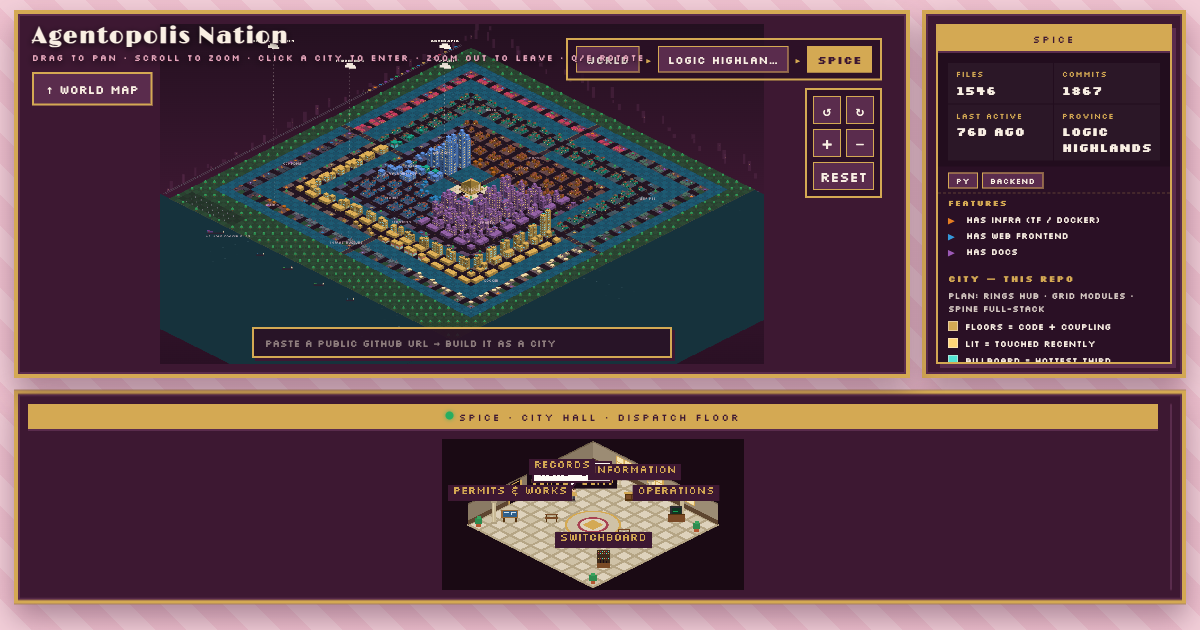
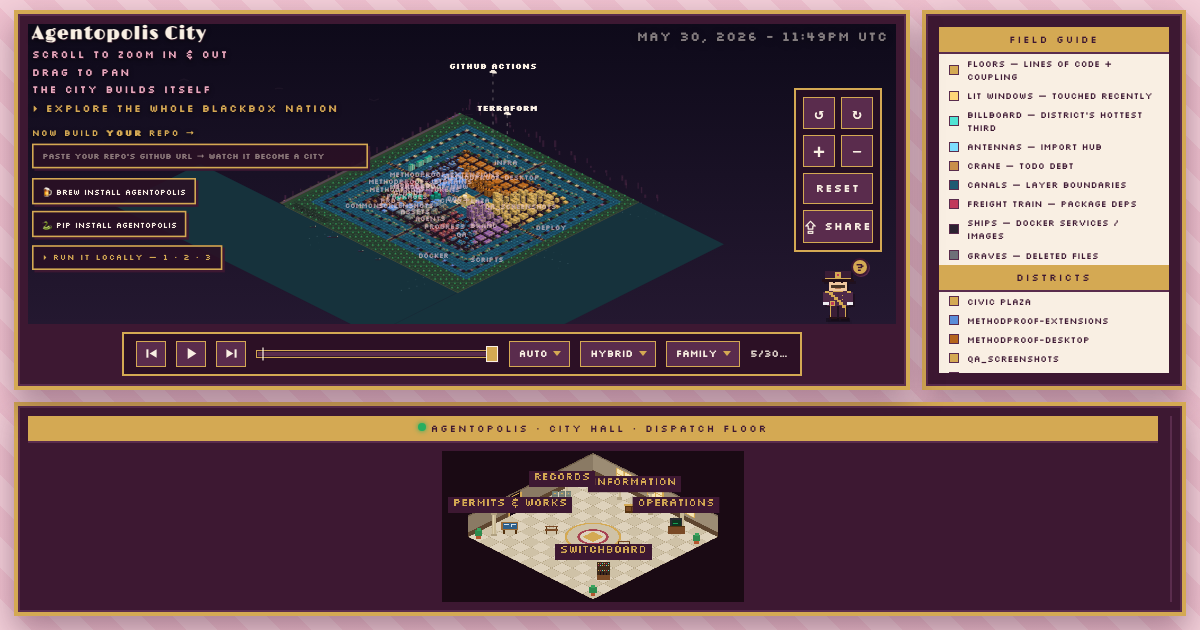
feat(tour,demo): open the movie finished+paused with a forced ▶, brand the demo "Agentopolis"
The hosted demo felt broken on arrival — a frantic auto-playing reel plus a
scurrying dispatch floor. Now, when the onboarding tour will run, the movie
opens on the FINISHED city (HEAD), paused and quiet, and the tour's first step
forces a "press ▶" control that replays from the first commit. Pausing the reel
also calms the agent-meme floor (it reads MOVIE_PLAYING), so one lever quiets
both. Returning visitors and embeds still autoplay from the empty lot.

- city-timelapse: rewindForTour() + autoplay gate (RESUME set / DONE unset, never
  in embeds); exposed as window.movieRewindForTour for tour replays.
- tour: new `proceed` flag — a forced IN-PAGE control advances the tour on click
  (vs. a navigation hand-off); arm() is now re-armable for back-nav/resize.
  Forced ▶ step added to the movie, demo-land, and demo-cards tracks.
- Showcase landing branded "Agentopolis" (title + social card) instead of the
  repo it's built from; demo capital switched to MethodProof (Dockerfile + bake
  default). og-image.png refreshed to the current branded landing.

Also includes a mobile affordance: tap a dossier legend card to pin its
highlight and hold the reel; tap again / play-pause / map-touch releases.

diff --git a/agentopolis/static/tour.js b/agentopolis/static/tour.js
@@ -41,6 +41,7 @@
     .replaceAll('← → to step a commit, or ', '')
     .replaceAll('Press play', 'Tap play').replaceAll('Press the controls', 'Tap the controls')
     .replaceAll('Press ■ live', 'Tap ■ live').replaceAll('Press ▶ Replay', 'Tap ▶ Replay')
+    .replaceAll('Press ▶', 'Tap ▶')
     .replaceAll('Click', 'Tap').replaceAll('click', 'tap')
     .replaceAll('Hover one', 'Tap & hold one').replaceAll('Hover a worker', 'Tap & hold a worker')
     .replaceAll('Hover an agent', 'Tap & hold an agent').replaceAll('Hover a citizen', 'Tap & hold a citizen')
@@ -98,10 +99,10 @@
   ];
   const MOVIE = [
     { center: 1, title: '⭐ THE FOUNDING, REPLAYED ⭐',
-      text: `Roll the reel, ${pres} — the official history of ${city}, rising commit by commit. This is your royal screening room; every lever of the chronicle obeys you here.` },
-    { sel: '#tl-play', title: 'Play & pause the chronicle',
-      text: '▶ Begin or halt the documentary at your pleasure — the ⏮ ⏭ flank it to leap between chapters. History waits for you.',
-      try: 'Press ▶ or tap spacebar — start the reel.' },
+      text: `Behold ${city}, ${pres} — complete, and held in your private screening room. Every lever of the chronicle obeys you here. Permit me to roll its history from the very beginning.` },
+    { sel: '#tl-play', force: 1, proceed: 1, title: 'Roll the reel yourself',
+      text: `The reel waits, paused, on the finished city. Press ▶ and watch ${city} rise again from a single commit — the ⏮ ⏭ flank it to leap between chapters, and you may halt anytime.`,
+      try: 'Press ▶ — start the replay.' },
     { sel: '#tl-seek', title: 'Scrub through the ages',
       text: 'Drag to leap to any era of your reign. The lit tick-marks are chapters — each the moment the city RE-FORMED into a grander shape.',
       try: 'Drag it, ← → to step a commit, or ⏮ ⏭ / , . to hop chapters.' },
@@ -126,13 +127,13 @@
   //      navigation itself (no clone to type), carrying the tour onward to where the explanation cards live. ----
   const DEMO_LAND = [
     { center: 1, title: '⭐ WELCOME TO THE REPUBLIC ⭐',
-      text: `${leader}! Your capital is rebuilding its entire glorious history before your very eyes. Permit your Chief of Staff to narrate the spectacle.` },
+      text: `${leader}! Your capital stands complete before you, ready to rebuild its entire glorious history at your command. Permit your Chief of Staff to narrate the spectacle.` },
+    { sel: '#tl-play', force: 1, proceed: 1, title: 'Press ▶ to begin',
+      text: 'Behold your capital, complete and waiting. Press ▶ and watch it raise itself from a single humble commit into the metropolis it was always destined to become.',
+      try: 'Press ▶ — start the founding.' },
     { sel: '#map', title: 'The founding, replayed',
-      text: 'Watch the city raise itself from a single humble commit into the metropolis it was always destined to become. It plays itself — as all things do, for you.',
+      text: 'There it rises — from a single humble commit toward the metropolis it was always destined to become. It builds itself, as all things do, for you.',
       try: 'Drag, scroll, and spin while it builds.' },
-    { sel: '#transport', title: 'Your screening controls',
-      text: '▶ Play or pause (spacebar), drag to scrub, hop chapters with ⏮ ⏭, set the pace of progress. The chronicle obeys your hand.',
-      try: 'Press play, drag the scrubber, or ⏮ ⏭ to hop chapters.' },
     { sel: '#tl-shape', title: 'Shape the skyline',
       text: 'A grant of taste, Excellency: reshape every building by file family, rarity, size, age — or a tasteful uniform decree. The look of the Republic bends to your whim.',
       try: 'Reshape the skyline — pick a mode.' },
@@ -144,7 +145,10 @@
   ];
   const DEMO_CARDS = [
     { center: 1, title: '⭐ GRAND OPENING ⭐',
-      text: `Behold, ${pres} — ribbon freshly cut, a brand-new town flinging its doors open and raising itself commit by commit in your honor. And now, the briefing you were denied back home...` },
+      text: `Behold, ${pres} — ribbon freshly cut, a brand-new town standing complete with its doors flung open, ready to raise itself commit by commit in your honor. And now, the briefing you were denied back home...` },
+    { sel: '#tl-play', force: 1, proceed: 1, title: 'Raise your new town',
+      text: 'Your freshly-opened town stands complete. Press ▶ to watch it rise from nothing — and the dossier beside it will narrate every district as it appears.',
+      try: 'Press ▶ — raise the city.' },
     { sel: '#explain', title: 'Your living war-room dossier',
       text: 'The dispatch floor yields to your briefing — and it rewrites ITSELF every commit. "Now Playing" names the commit at hand; the ledger counts your holdings; the Formation card reveals the very metrics that CHOSE this city’s shape; and each district reports its strength.',
       try: 'Read the cards — they refresh with every commit.' },
@@ -355,12 +359,13 @@
   }
 
   function arm(target, step) {                                 // pressing the real control carries the tour onward
-    if (target.dataset.tourArmed) return;
-    target.dataset.tourArmed = '1';
-    target.addEventListener('click', () => {                   // capture: runs before the control's own navigation
+    target.removeEventListener('click', target._tourArm, { capture: true });   // re-armable: back-nav / resize re-show
+    target._tourArm = () => {                                  // capture: runs before the control's own handler
+      if (step.proceed) return go(at + 1);                     // an in-page control (▶ play): pressing it advances the tour
       if (step.resume !== false) { localStorage.setItem(RESUME, ctx === 'city' ? 'movie' : '1'); }
-      localStorage.setItem(DONE, '1');                         // the live-city portion is seen; don't re-auto-run it
-    }, { capture: true, once: true });
+      localStorage.setItem(DONE, '1');                         // a hand-off control: it navigates; resume on the next page
+    };
+    target.addEventListener('click', target._tourArm, { capture: true, once: true });
   }
 
   function place(r) {                                          // park the card clear of the spotlit element
@@ -431,6 +436,7 @@
 
   function start() {                                          // dim the screen INSTANTLY, then bring the card in when ready
     if (!ui) build();
+    if (screeningRoom) window.movieRewindForTour?.();          // replay: pause on the finished city so the forced ▶ step replays it
     farewellShown = false;                                     // each run earns its own closing pointer
     ui.block.classList.remove('farewell-dim');
     ui.block.style.display = 'block';

diff --git a/agentopolis/static/city-timelapse.js b/agentopolis/static/city-timelapse.js
@@ -83,9 +83,16 @@ try { const c = JSON.parse(sessionStorage.getItem('apx-cam') || 'null');
   buildExplain();                                        // the dispatch floor becomes a live, repo-specific legend
   seek(-1);
   loading.remove();
-  startIntro();                                           // open on the live view's frame, then ease to the village
   speed = autoSpeed();                                    // size the walk to ~45s regardless of repo size (calm, not chaotic)
-  setPlay(true);                                          // a movie plays itself
+  // First-time visitors get the onboarding tour, which opens the city already FINISHED and paused, then
+  // walks the President to ▶ Replay it himself — calmer than a frantic auto-playing reel. Returning
+  // visitors (tour seen) and embeds still autoplay from the empty lot.
+  const embed = document.body.dataset.embed === '1';
+  const tourPending = !embed &&
+    (!!localStorage.getItem('agentopolis-tour-resume') || !localStorage.getItem('agentopolis-tour-done'));
+  if (tourPending) rewindForTour();                       // hold on the finished city, paused & quiet — ▶ replays it
+  else setPlay(true);                                     // a movie plays itself from the empty lot
+  startIntro();                                           // ease the camera in from the live view's frame (no-op without one)
   requestAnimationFrame(loop);
 })().catch(e => { loading.remove(); console.error('timelapse load failed', e); });
 
@@ -620,7 +627,8 @@ function loop(t) {
     if (drawTransition(t)) seek(transition.at);             // settle at full height (seek snaps floors; tween won't regrow)
     last = 0; requestAnimationFrame(loop); return;
   }
-  if (playing && ptr < commits.length - 1) {
+  const cardHeld = pinnedFocus || document.querySelector('#explain .xcard[data-focus]:hover');
+  if (playing && !cardHeld && ptr < commits.length - 1) {  // a hovered / tapped legend card holds the reel for inspection
     if (!last) last = t;
     acc += (t - last) / 1000 * speed;
     last = t;
@@ -676,12 +684,22 @@ function stepIntro(t) {
 }
 
 function setPlay(p) {
-  playing = p; last = 0;
+  playing = p; last = 0; pinnedFocus = null;               // hitting play/pause releases a pinned card
+
   window.MOVIE_PLAYING = p;                                 // hotel.js reads this: agents only go frantic while the reel rolls
   if (p && ptr >= commits.length - 1) seek(-1);          // replay from the start
   document.getElementById('tl-play').innerHTML = playing ? ICONS.pause : ICONS.play;
   if (!p && window.DEMO_MOVIE && ptr >= commits.length - 1) showFinishCTA();   // the demo holds on the finished city
 }
+
+// The onboarding tour opens on the COMPLETE city, paused, then forces the President to press ▶ Replay.
+// Jump to HEAD and pause directly (not via setPlay(false), which at HEAD would pop the demo's finish-CTA).
+function rewindForTour() {
+  seek(commits.length - 1);                                // the finished skyline
+  playing = false; window.MOVIE_PLAYING = false;           // paused → the dispatch floor stays calm
+  document.getElementById('tl-play').innerHTML = ICONS.play;
+}
+window.movieRewindForTour = rewindForTour;                 // tour.js calls this on replay (movie already loaded)
 
 function jumpChapter(dir) {                               // ⏮ / ⏭ and , / . hop between formation transitions
   setPlay(false);
@@ -1043,6 +1061,10 @@ function buildExplain() {
   tipEl = document.createElement('div'); tipEl.id = 'xtip'; document.body.appendChild(tipEl);
   box.addEventListener('mouseover', e => { const c = e.target.closest('.xcard[data-tip]'); if (c) showTip(c); });
   box.addEventListener('mouseout', e => { const c = e.target.closest('.xcard[data-tip]'); if (c && !c.contains(e.relatedTarget)) hideTip(); });
+  box.addEventListener('click', e => {                     // tap a legend card to pin it (mobile select); tap again to release
+    const c = e.target.closest('.xcard[data-focus]');
+    pinnedFocus = c && c.dataset.focus !== pinnedFocus ? c.dataset.focus : null;
+  });
 }
 
 const FORM_TITLE = { village: 'Small Town', acropolis: 'Acropolis', radial: 'Radial', spine: 'Spine',
@@ -1214,9 +1236,11 @@ function fillPolys(c, polys) {                             // one path, nonzero 
 // The hover link runs both ways: a hovered card OR a hovered building/fixture resolves to one focus.
 // `ping` is what pulses on the map; `cards` is the set of data-focus keys whose legend cards raise.
 let mapHit = null;                                         // building / fixture under the mouse on the map
+let pinnedFocus = null;                                    // a tapped legend card (mobile select): holds the reel + highlight
 function activeFocus() {
   const hov = document.querySelector('#explain .xcard[data-focus]:hover');
-  if (hov) return { ping: hov.dataset.focus, cards: new Set([hov.dataset.focus]) };
+  const ping = hov ? hov.dataset.focus : pinnedFocus;     // pinned card drives the highlight on touch (no hover)
+  if (ping) return { ping, cards: new Set([ping]) };
   if (mapHit && mapHit.component) {                        // a building → its district (+ any feature it is)
     const cards = new Set(['district:' + mapHit.component]);
     if (mapHit.hub) cards.add('hub');
@@ -1278,6 +1302,7 @@ tlCanvas.addEventListener('wheel', m => {
     (m.clientX - r.left) * (tlCanvas.width / r.width), (m.clientY - r.top) * (tlCanvas.height / r.height));
 }, { passive: false });
 let drag = null;
+tlCanvas.addEventListener('pointerdown', () => pinnedFocus = null);   // touching the map releases a pinned card
 tlCanvas.addEventListener('mousedown', m => drag = { x: m.clientX, y: m.clientY });
 window.addEventListener('mouseup', () => drag = null);
 window.addEventListener('mousemove', m => {

diff --git a/agentopolis/static/share.js b/agentopolis/static/share.js
@@ -5,7 +5,7 @@
 (() => {
 const params = new URLSearchParams(location.search);
 const forge = params.get('forge');
-// must match server root()'s og_key: the forge url, else the demo city (SPICE)
+// must match server root()'s og_key: the forge url, else the demo city repo id (window.DEMO_CITY)
 const shareKey = () => forge || window.DEMO_CITY || document.body.dataset.hallName || 'city';
 // /c/owner/repo canonical when this is a github forge, else the plain origin
 const shareUrl = () => {

diff --git a/agentopolis/server.py b/agentopolis/server.py
@@ -394,7 +394,9 @@ def _page(request: Request, forge: str | None, embed: bool = False) -> HTMLRespo
         movie = "static" not in qp           # a forged repo plays its history by default; ?static = the quick city
         src = ("/forge-timelapse?url=" if movie else "/forge?url=") + quote(forge, safe="")
     elif auto_city:                          # showcase demo: land on a grow-from-start movie of the pinned city
-        mode, name, movie, demo_movie = "city", showcase["city"], True, True
+        # brand the landing "Agentopolis" (title + social card), not the repo it's built from; the repo id
+        # still keys the data sources and OG cache (og_key below), so warming + serving stay in sync.
+        mode, name, movie, demo_movie = "city", "Agentopolis", True, True
         src = "/city-data.json?repo=" + quote(showcase["city"], safe="")
         timeline_src = "/timeline.json?repo=" + quote(showcase["city"], safe="")
     elif nation["root"]:

diff --git a/docs/tour.md b/docs/tour.md
@@ -46,11 +46,24 @@ const ctx = demo && isMovie ? (window.DEMO_MOVIE ? 'demo-land' : 'demo-cards')
 | `nation` | local multi-repo / `?nation` | `nation.js` | world→state→city tiers, field guide, forge |
 | `city` | a single live repo | `city-live.js` | legend, dispatch floor, live event log |
 | `movie` | `?timelapse` / a forge / replay | `city-timelapse.js` | the git-history time-lapse + transport bar |
-| `demo-land` | hosted demo landing (`DEMO_MOVIE=1`) | `city-timelapse.js` | the auto-playing hero movie |
+| `demo-land` | hosted demo landing (`DEMO_MOVIE=1`) | `city-timelapse.js` | the hero movie (opens finished + paused) |
 | `demo-cards` | a demo forge result (`DEMO_MOVIE=""`) | `city-timelapse.js` | where the explanation cards render |
 
 `screeningRoom = ctx ∈ {movie, demo-land, demo-cards}` — the three movie-based
 contexts where the visualization is the content (see *Undimmed screening room*).
+
+> **Movie opens paused when the tour will run.** A frantic auto-playing reel on
+> arrival felt broken, so `city-timelapse.js` checks the same flags the tour does
+> (`RESUME` set, or `DONE` unset — and never in an embed) and, when the tour is
+> pending, calls `rewindForTour()` instead of `setPlay(true)`: it jumps to HEAD
+> (the **complete** city, not a blank lot) and holds, paused and quiet. The tour's
+> first movie step is then a **forced `proceed`** `#tl-play` — pressing ▶ replays
+> from the first commit (`setPlay(true)` rewinds at HEAD) and advances the tour.
+> On a tour *replay* (the "?" handle, movie already loaded), `start()` calls
+> `window.movieRewindForTour?.()` to re-pause on the finished city. Returning
+> visitors (tour seen) and embeds still autoplay from the empty lot as before.
+> Because the dispatch-floor meme reads `MOVIE_PLAYING`, pausing the reel also
+> calms the frantic floor — one lever quiets both.
 
 > **Note:** in movie mode the body's `data-mode` is still `"city"`; the engine
 > (`city-timelapse.js`) is what distinguishes a movie, hence the script-tag check.
@@ -127,7 +140,7 @@ e.g. mobile-hidden transport selectors simply don't appear.
 
 ### `movie` (9 steps) — resumes after the forced `#replay`
 1. *(center)* — ⭐ The Founding, Replayed ⭐
-2. `#tl-play` — Play & pause the chronicle — *try: press ▶*
+2. `#tl-play` — **forced + `proceed`** — "press ▶ to roll the reel yourself" → replays from the start, advances the tour
 3. `#tl-seek` — Scrub through the ages — *try: drag the scrubber*
 4. `#tl-speed` — The pace of progress — *try: try 10×*
 5. `#tl-trans` — Urban renewal, by decree (transition mode) — *try: pick a mode*
@@ -136,20 +149,20 @@ e.g. mobile-hidden transport selectors simply don't appear.
 8. `#tl-exit` — Return to the present (■ live)
 9. *(center)* — ⭐ Long Live the President ⭐ — close
 
-### `demo-land` (6 steps) — the hosted demo's auto-playing hero movie
+### `demo-land` (5 steps) — the hosted demo's hero movie (opens finished + paused)
 1. *(center)* — ⭐ Welcome to the Republic ⭐
-2. `#map` — The founding, replayed — *try: drag, scroll, spin while it builds*
-3. `#transport` — Your screening controls — *try: press play / drag the scrubber*
+2. `#tl-play` — **forced + `proceed`** — "press ▶ to begin" → raises the city from the first commit, advances the tour
+3. `#map` — The founding, replayed — *try: drag, scroll, spin while it builds*
 4. `#tl-shape` — Shape the skyline — *try: pick a mode*
-5. `#hotel` — The tireless citizenry (agent-meme floor) — *try: hover a citizen*
-6. `#forge` — A leader BUILDS — **driven**: types a URL into the forge, then navigates (see below)
+5. `#forge` — A leader BUILDS — **driven**: types a URL into the forge, then navigates (see below)
 
-### `demo-cards` (5 steps) — resumes on the demo forge result, where cards render
+### `demo-cards` (6 steps) — resumes on the demo forge result, where cards render
 1. *(center)* — ⭐ Grand Opening ⭐
-2. `#explain` — Your living war-room dossier — *try: read the cards, they refresh per commit*
-3. `#explain` — The map answers to you (bi-directional hover) — *try: hover a card, watch the city pulse*
-4. `#tl-exit` — Return to the present
-5. *(center)* — ⭐ Now Go Build, President ⭐ — close
+2. `#tl-play` — **forced + `proceed`** — "press ▶ to raise your new town" → plays from the first commit, advances the tour
+3. `#explain` — Your living war-room dossier — *try: read the cards, they refresh per commit*
+4. `#explain` — The map answers to you (bi-directional hover) — *try: hover a card, watch the city pulse*
+5. `#tl-exit` — Return to the present
+6. *(center)* — ⭐ Now Go Build, President ⭐ — close
 
 ---
 
@@ -168,6 +181,10 @@ e.g. mobile-hidden transport selectors simply don't appear.
 
   // ---- forced step: the user must click the real element to proceed ----
   force: 1,                 // hides Next, shows the "press it ↑" nudge, arms a click listener
+  proceed: 1,               // forced IN-PAGE control (e.g. ▶ play): clicking it advances the tour
+                            //   (go(at+1)) instead of writing RESUME/DONE for a navigation hand-off
+
+  // (without `proceed`, a forced click writes RESUME + DONE — for controls that navigate, like #replay)
 
   // ---- driven step: the Next button performs a navigation ----
   nav:       '/?forge=…',          // where to go

diff --git a/CHANGELOG.md b/CHANGELOG.md
@@ -4,6 +4,21 @@ All notable changes to this project are documented here. The format is based on
 [Keep a Changelog](https://keepachangelog.com/en/1.1.0/), and this project adheres
 to [Semantic Versioning](https://semver.org/spec/v2.0.0.html).
 
+## [Unreleased]
+
+### Added
+- Mobile: tap a dossier legend card in the movie to pin its highlight (and hold the reel
+  for inspection); tap it again, press play/pause, or touch the map to release.
+
+### Changed
+- Onboarding tour now opens the movie/landing on the **finished** city, paused, instead of
+  a frantic auto-playing reel. The first movie step forces a "press ▶" control that replays
+  the history from the first commit. Pausing the reel also calms the dispatch-floor meme.
+  Returning visitors and embeds still autoplay.
+- Showcase demo is rebranded **"Agentopolis"** in the page title and social card (it was
+  named after the repo it's built from), and the demo capital is now **MethodProof**.
+- Social share image (`og-image.png`) refreshed to the current branded landing.
+
 ## [0.17.0] - 2026-06-16
 
 ### Changed